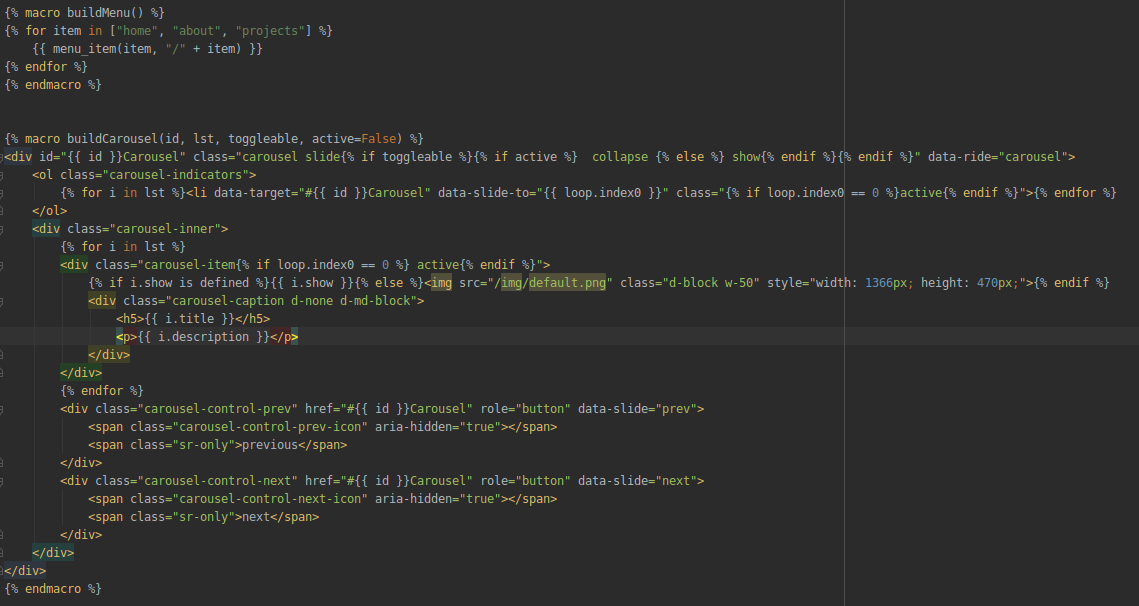
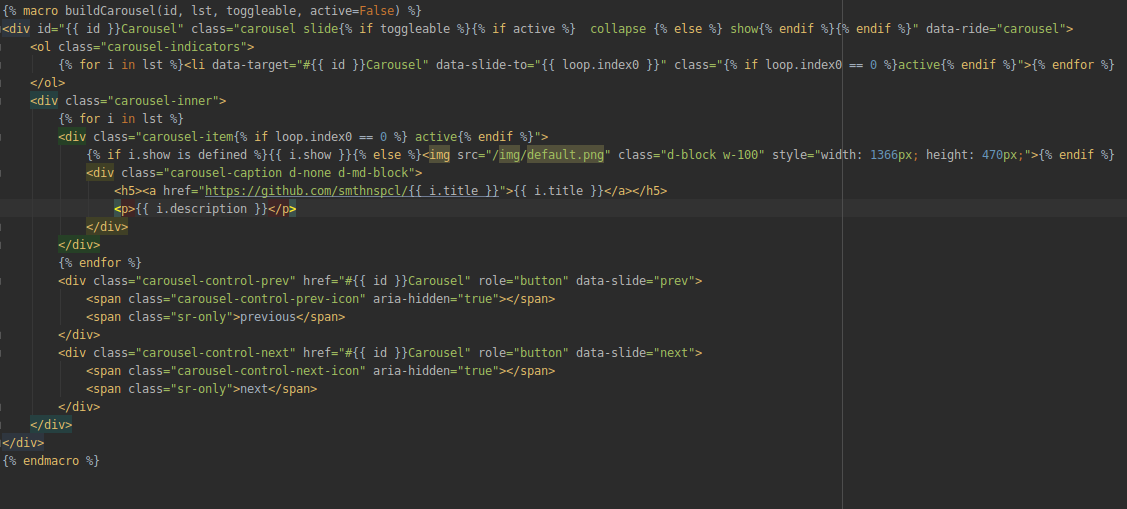
update

Changed region(s): [[0.0, 0.0, 0.9938, 1.0]]

diff --git a/templates/functions.html b/templates/functions.html
@@ -23,9 +23,9 @@
     <div class="carousel-inner">
         {% for i in lst %}
         <div class="carousel-item{% if loop.index0 == 0 %} active{% endif %}">
-            {% if i.show is defined %}{{ i.show }}{% else %}<img src="/img/default.png" class="d-block w-50" style="width: 1366px; height: 470px;">{% endif %}
+            {% if i.show is defined %}{{ i.show }}{% else %}<img src="/img/default.png" class="d-block w-100" style="width: 1366px; height: 470px;">{% endif %}
             <div class="carousel-caption d-none d-md-block">
-                <h5>{{ i.title }}</h5>
+                <h5><a href="https://github.com/smthnspcl/{{ i.title }}">{{ i.title }}</a></h5>
                 <p>{{ i.description }}</p>
             </div>
         </div>
